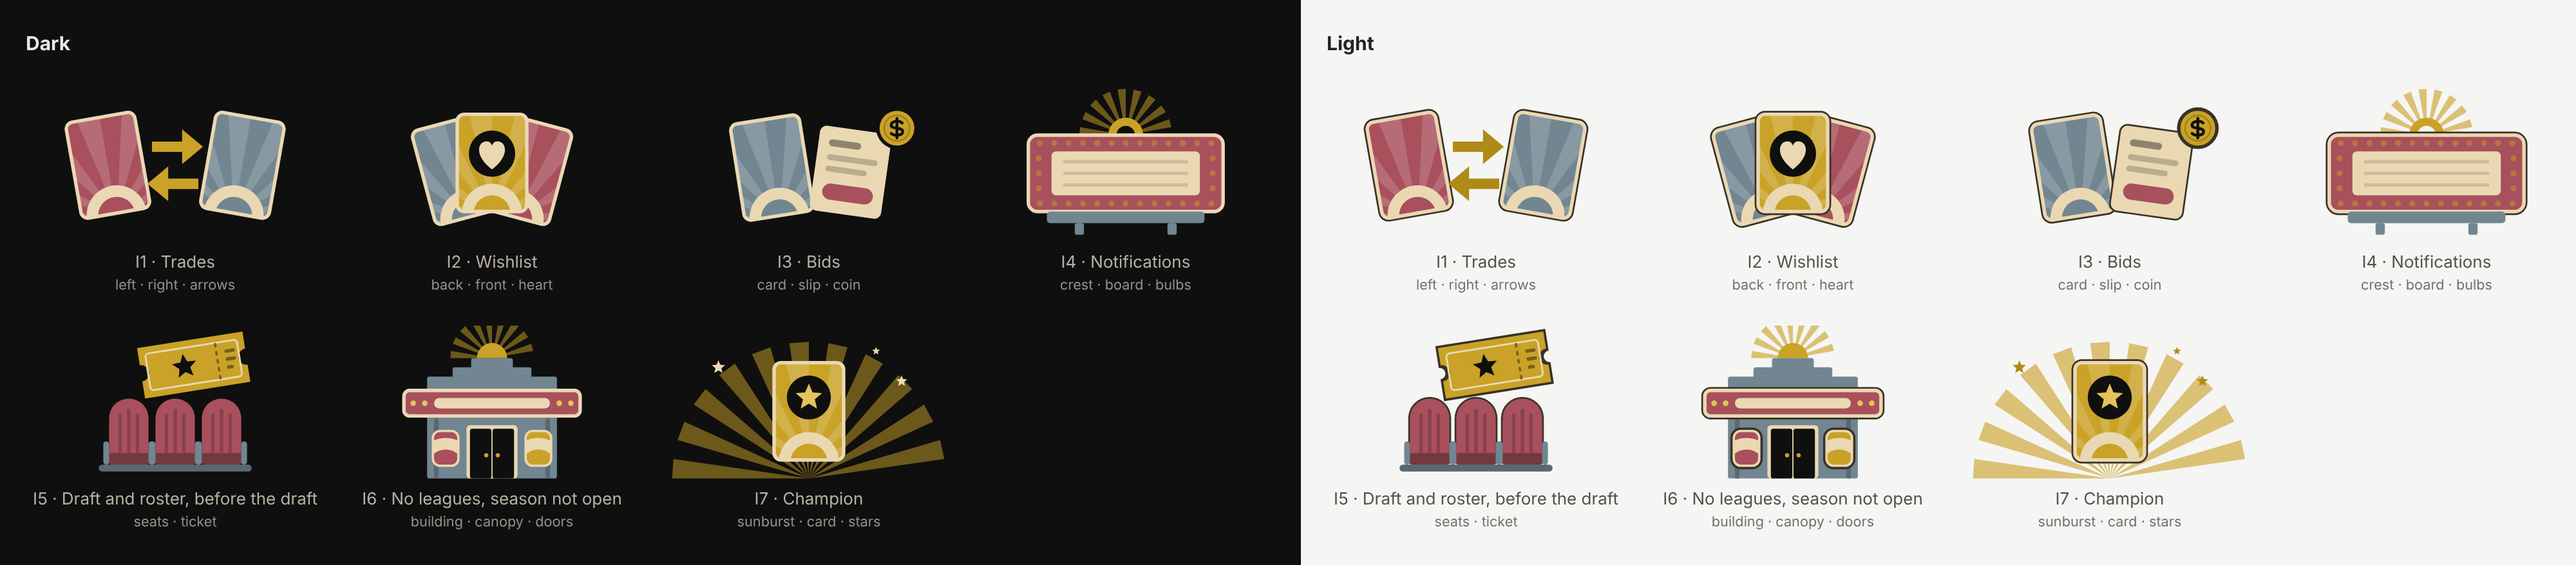
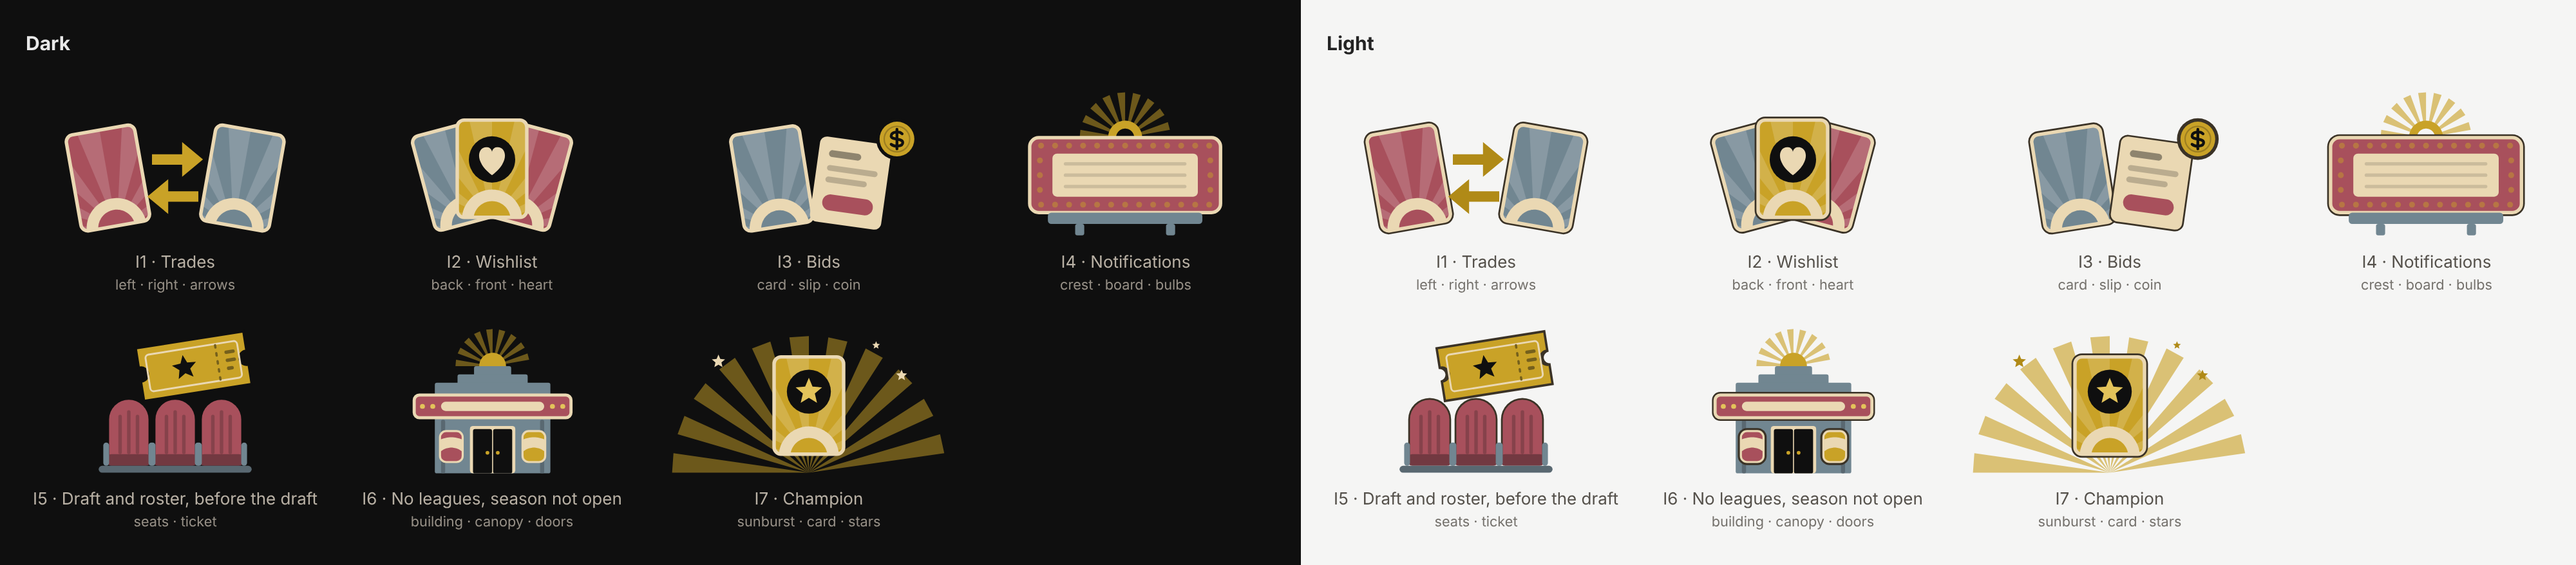
Put every Marquee piece on one baseline
The pieces had uneven space under them inside the shared canvas, so the gap
to the title would vary by screen. Each piece now ends on the same
baseline, and the entrance (which overflowed the canvas top) is scaled to fit.

Claude-Session: https://claude.ai/code/session_012k7YdicCkNeknuiJ8ChjRQ

diff --git a/apps/ios/docs/marquee/README.md b/apps/ios/docs/marquee/README.md
@@ -30,7 +30,9 @@ node apps/ios/docs/marquee/generate.mjs   # rewrites the asset catalog
 node apps/ios/docs/marquee/preview.mjs    # redraws preview.png (needs Playwright)
 ```
 
-- Every layer is a full 240 × 132 canvas, so layers stack with no offsets.
+- Every layer is a full 240 × 132 canvas, so layers stack with no offsets. Every piece
+  sits on the same baseline (`BASELINE`), so the gap to the title under it is the
+  same on every screen; update a piece's `EXTENT` when its drawing changes.
 - Only what Xcode's asset catalog draws: paths, rects, circles, solid fills and
   strokes, transforms, fill-opacity. No clip paths, masks, gradients, filters or
   text. Shapes that need clipping are clipped in the geometry.
